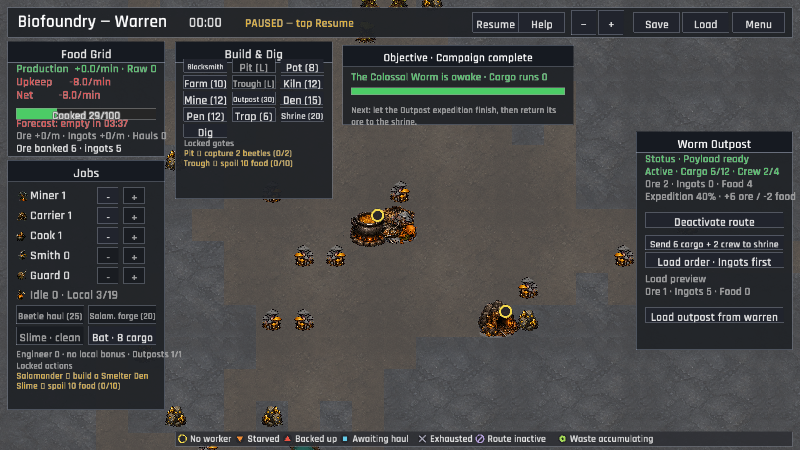
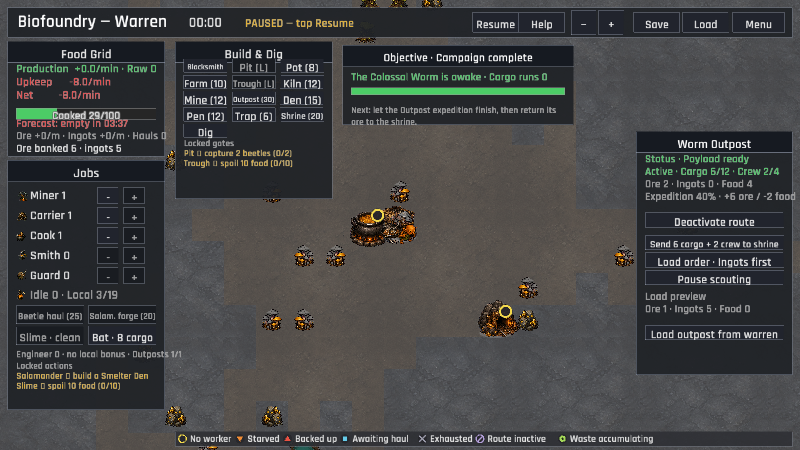
The outpost keeps its scouts on the worm's word (Endless expedition control, post-campaign)
The remote expedition previously consumed provisions whenever an active staffed route had room, leaving the player no way to protect food without closing the whole route. Add a persisted touch control that pauses or resumes scouting while keeping the route and cargo intact, expose the state in the inspection card, and align the completed-campaign Objective with the visible action. Extend simulation and UI tests, capture the paused compact state, and publish the refreshed Windows and WebGL packages.

Changed region(s): [[0.7812, 0.5911, 1.0, 0.84]]

diff --git a/src/game_actions.rs b/src/game_actions.rs
@@ -203,6 +203,26 @@ impl Game {
                     }
                 }
             }
+            UiAction::ToggleOutpostExpedition(pos) => {
+                if let GameState::Warren(session) = &mut self.state {
+                    if session.worm_awake
+                        && session.worm_transit.is_none()
+                        && session
+                            .building_at(pos)
+                            .is_some_and(|building| building.kind == "outpost")
+                    {
+                        session.ensure_outpost(pos);
+                        if let Some(outpost) = session.outposts.iter_mut().find(|o| o.pos == pos) {
+                            if outpost.active && !outpost.crew.is_empty() {
+                                outpost.toggle_expedition();
+                                self.notifications
+                                    .info(outpost_expedition_notice(outpost.expedition_paused));
+                                self.audio.play(Sfx::Select);
+                            }
+                        }
+                    }
+                }
+            }
             UiAction::TransitToOutpost(pos) | UiAction::TransitToShrine(pos) => {
                 let mut transit_started = false;
                 if let GameState::Warren(session) = &mut self.state {
@@ -306,6 +326,14 @@ fn outpost_activation_notice(active: bool) -> &'static str {
         "The worm route is now active."
     } else {
         "The worm route is now inactive."
+    }
+}
+
+fn outpost_expedition_notice(paused: bool) -> &'static str {
+    if paused {
+        "Outpost scouting paused."
+    } else {
+        "Outpost scouting resumed."
     }
 }
 

diff --git a/src/ui/hud/objective.rs b/src/ui/hud/objective.rs
@@ -322,6 +322,18 @@ fn active_outpost_next_step(session: &GameSession, data: &GameData) -> &'static 
                 .find(|outpost| {
                     matches!(
                         crate::simulation::outposts::expedition_state(outpost, data),
+                        crate::simulation::outposts::ExpeditionState::Paused
+                    )
+                })
+        })
+        .or_else(|| {
+            session
+                .outposts
+                .iter()
+                .filter(|outpost| outpost.active)
+                .find(|outpost| {
+                    matches!(
+                        crate::simulation::outposts::expedition_state(outpost, data),
                         crate::simulation::outposts::ExpeditionState::NeedsFood { .. }
                     )
                 })
@@ -346,6 +358,9 @@ fn active_outpost_next_step(session: &GameSession, data: &GameData) -> &'static 
                     return "Next: tap the active Worm Outpost, then load food for its expedition.";
                 }
                 return "Next: keep cooked Food above reserve, then load the Outpost expedition.";
+            }
+            crate::simulation::outposts::ExpeditionState::Paused => {
+                return "Next: tap the active Worm Outpost, then Resume scouting.";
             }
             crate::simulation::outposts::ExpeditionState::Scouting { .. } => {
                 return "Next: let the Outpost expedition finish, then return its ore to the shrine."

diff --git a/src/ui/hud/inspect.rs b/src/ui/hud/inspect.rs
@@ -56,7 +56,7 @@ pub(super) fn draw_inspect_panel(
         "blacksmith" => 194.0 + data.equipment.len() as f32 * 26.0,
         "breeding_pit" => 280.0,
         "worm_shrine" => 240.0,
-        "outpost" => 350.0,
+        "outpost" => 390.0,
         _ => 152.0,
     };
     let panel = Rect::new(LOGICAL_WIDTH - 262.0, top, 250.0, height);
@@ -548,6 +548,23 @@ pub(super) fn draw_inspect_panel(
                         actions.push(UiAction::CycleOutpostCargo(pos));
                     }
                     y += 28.0;
+                    if crew > 0
+                        && hud_button(
+                            Rect::new(x, y, panel.w - 28.0, 24.0),
+                            if outpost.is_some_and(|route| route.expedition_paused) {
+                                "Resume scouting"
+                            } else {
+                                "Pause scouting"
+                            },
+                            session.worm_transit.is_none(),
+                            mouse,
+                        )
+                    {
+                        actions.push(UiAction::ToggleOutpostExpedition(pos));
+                    }
+                    if crew > 0 {
+                        y += 28.0;
+                    }
                     if let Some(load_hint) =
                         outpost.and_then(|route| outpost_load_hint(session, data, route))
                     {

diff --git a/src/simulation/tests/novel.rs b/src/simulation/tests/novel.rs
@@ -590,6 +590,36 @@ fn outpost_scouting_pauses_without_provisions_or_hold_room() {
 }
 
 #[test]
+fn player_paused_outpost_preserves_remote_food_and_progress() {
+    let (data, mut session, _outpost_pos) = active_outpost(30);
+    let crew: Vec<u32> = session
+        .creatures
+        .iter()
+        .take(2)
+        .map(|creature| creature.id)
+        .collect();
+    session.outposts[0].crew = crew;
+    session.outposts[0].cargo.insert(Good::CookedFood, 4);
+    session.outposts[0].expedition_progress = 8.0;
+    session.outposts[0].expedition_paused = true;
+
+    assert_eq!(
+        outposts::expedition_state(&session.outposts[0], &data),
+        outposts::ExpeditionState::Paused
+    );
+
+    outposts::tick_expeditions(
+        &mut session,
+        &data,
+        data.balance.outpost_expedition_cycle_sec,
+    );
+
+    assert_eq!(session.outposts[0].cargo.get(&Good::CookedFood), Some(&4));
+    assert_eq!(session.outposts[0].cargo.get(&Good::Ore), None);
+    assert_eq!(session.outposts[0].expedition_progress, 8.0);
+}
+
+#[test]
 fn simulation_reports_arrival_after_a_cargo_run_completes() {
     let (data, mut session, outpost_pos) = active_outpost(22);
     session.economy.ore_stock = 1;

diff --git a/src/ui/hud/objective/tests.rs b/src/ui/hud/objective/tests.rs
@@ -499,6 +499,35 @@ fn completed_objective_names_the_wait_step_for_a_scouting_outpost() {
 }
 
 #[test]
+fn completed_objective_names_the_resume_step_for_a_paused_outpost() {
+    let (data, mut session) = boot();
+    session.worm_awake = true;
+    session.unlocked.insert("worm_transit".to_owned());
+    let pos = session
+        .world
+        .tiles
+        .iter_with_pos()
+        .find(|(pos, _)| session.can_place_building(*pos))
+        .map(|(pos, _)| pos)
+        .unwrap();
+    session.buildings.push(Building::new("outpost", pos));
+    session.ensure_outpost(pos);
+    let crew_id = session.creatures.first().unwrap().id;
+    let outpost = session.outposts.first_mut().unwrap();
+    outpost.active = true;
+    outpost.crew.push(crew_id);
+    outpost.cargo.insert(Good::CookedFood, 2);
+    outpost.expedition_paused = true;
+
+    let objective = CampaignObjective::current(&session, &data);
+
+    assert_eq!(
+        objective.next,
+        "Next: tap the active Worm Outpost, then Resume scouting."
+    );
+}
+
+#[test]
 fn completed_objective_names_the_food_grid_when_an_expedition_is_unprovisioned() {
     let (data, mut session) = boot();
     session.worm_awake = true;

diff --git a/src/ui/hud/overlays.rs b/src/ui/hud/overlays.rs
@@ -11,7 +11,7 @@ use macroquad_toolkit::prelude::*;
 use macroquad_toolkit::ui::draw_ui_text_ex;
 
 const INSPECT_HELP_BODY: &str =
-    "Tap a building on the map to see its status and controls. Tap an equipment button in the Blacksmith card to queue it; after onboarding, Breeding Pit buttons show specialist benefits. At an awakened Outpost, tap Load order to rotate cargo priority, send food and crew to scout for ore, then return the loaded hold to the shrine.";
+    "Tap a building on the map to see its status and controls. Tap an equipment button in the Blacksmith card to queue it; after onboarding, Breeding Pit buttons show specialist benefits. At an awakened Outpost, tap Load order to rotate cargo priority, send food and crew to scout for ore, pause scouting to protect remote food, then return the loaded hold to the shrine.";
 const OBJECTIVE_HELP_BODY: &str =
     "Read the Objective card for the current campaign milestone and its next requirement. Locked gates name their exact unlock; after the worm wakes, inspect the Outpost to prepare cargo runs.";
 

diff --git a/src/simulation/outposts.rs b/src/simulation/outposts.rs
@@ -54,6 +54,7 @@ pub struct CargoLoad {
 pub enum ExpeditionState {
     Inactive,
     NoCrew,
+    Paused,
     HoldFull,
     NeedsFood {
         required: u32,
@@ -112,6 +113,9 @@ pub fn expedition_state(outpost: &Outpost, data: &GameData) -> ExpeditionState {
     if crew == 0 {
         return ExpeditionState::NoCrew;
     }
+    if outpost.expedition_paused {
+        return ExpeditionState::Paused;
+    }
     if outpost.cargo_total() >= data.balance.outpost_storage_cap {
         return ExpeditionState::HoldFull;
     }
@@ -142,7 +146,7 @@ pub fn tick_expeditions(session: &mut GameSession, data: &GameData, dt: f32) {
     let food_per_crew = data.balance.outpost_expedition_food_per_crew;
     let ore_per_crew = data.balance.outpost_expedition_ore_per_crew;
     for outpost in &mut session.outposts {
-        if !outpost.active || outpost.crew.is_empty() {
+        if !outpost.active || outpost.expedition_paused || outpost.crew.is_empty() {
             continue;
         }
         let crew = outpost.crew.len() as u32;

diff --git a/src/state/outposts.rs b/src/state/outposts.rs
@@ -45,6 +45,9 @@ pub struct Outpost {
     pub cargo: HashMap<Good, u32>,
     #[serde(default)]
     pub crew: Vec<u32>,
+    /// Whether remote scouting is paused while the route remains active.
+    #[serde(default)]
+    pub expedition_paused: bool,
     /// Seconds accumulated toward the next remote scouting haul.
     #[serde(default)]
     pub expedition_progress: f32,
@@ -60,6 +63,7 @@ impl Outpost {
             cargo_priority: CargoPriority::default(),
             cargo: HashMap::new(),
             crew: Vec::new(),
+            expedition_paused: false,
             expedition_progress: 0.0,
             last_failure: None,
         }
@@ -71,6 +75,10 @@ impl Outpost {
 
     pub fn cycle_cargo_priority(&mut self) {
         self.cargo_priority = self.cargo_priority.next();
+    }
+
+    pub fn toggle_expedition(&mut self) {
+        self.expedition_paused = !self.expedition_paused;
     }
 }
 

diff --git a/src/state/outposts/tests.rs b/src/state/outposts/tests.rs
@@ -7,6 +7,7 @@ fn new_outpost_defaults_to_ore_first_loading() {
 
     assert_eq!(outpost.cargo_priority, CargoPriority::Ore);
     assert_eq!(outpost.cargo_priority.label(), "Ore first");
+    assert!(!outpost.expedition_paused);
 }
 
 #[test]
@@ -19,4 +20,9 @@ fn cargo_priority_cycles_in_a_predictable_loop() {
     outpost.cycle_cargo_priority();
     outpost.cycle_cargo_priority();
     assert_eq!(outpost.cargo_priority, CargoPriority::Food);
+
+    outpost.toggle_expedition();
+    assert!(outpost.expedition_paused);
+    outpost.toggle_expedition();
+    assert!(!outpost.expedition_paused);
 }

diff --git a/src/game/capture_scenes.rs b/src/game/capture_scenes.rs
@@ -572,6 +572,14 @@ pub(super) fn begin(game: &mut Game, scene: &str) {
                 }
             }
         }
+        "endless_expedition_paused" => {
+            begin(game, "endless_load_preview");
+            if let GameState::Warren(session) = &mut game.state {
+                if let Some(route) = session.outposts.last_mut() {
+                    route.expedition_paused = true;
+                }
+            }
+        }
         "endless_forge" => {
             game.transition(StateTransition::StartWarren);
             if let GameState::Warren(session) = &mut game.state {

diff --git a/src/ui/hud/inspect/status.rs b/src/ui/hud/inspect/status.rs
@@ -100,6 +100,9 @@ pub(super) fn outpost_expedition_hint(data: &GameData, outpost: &Outpost) -> Opt
     match crate::simulation::outposts::expedition_state(outpost, data) {
         crate::simulation::outposts::ExpeditionState::Inactive
         | crate::simulation::outposts::ExpeditionState::NoCrew => None,
+        crate::simulation::outposts::ExpeditionState::Paused => {
+            Some("Expedition paused · player paused".to_owned())
+        }
         crate::simulation::outposts::ExpeditionState::HoldFull => {
             Some("Expedition paused · hold full".to_owned())
         }

diff --git a/src/game_actions/tests.rs b/src/game_actions/tests.rs
@@ -65,3 +65,12 @@ fn outpost_activation_notice_names_the_resulting_route_state() {
         "The worm route is now inactive."
     );
 }
+
+#[test]
+fn outpost_expedition_notice_names_the_resulting_scouting_state() {
+    assert_eq!(outpost_expedition_notice(true), "Outpost scouting paused.");
+    assert_eq!(
+        outpost_expedition_notice(false),
+        "Outpost scouting resumed."
+    );
+}
